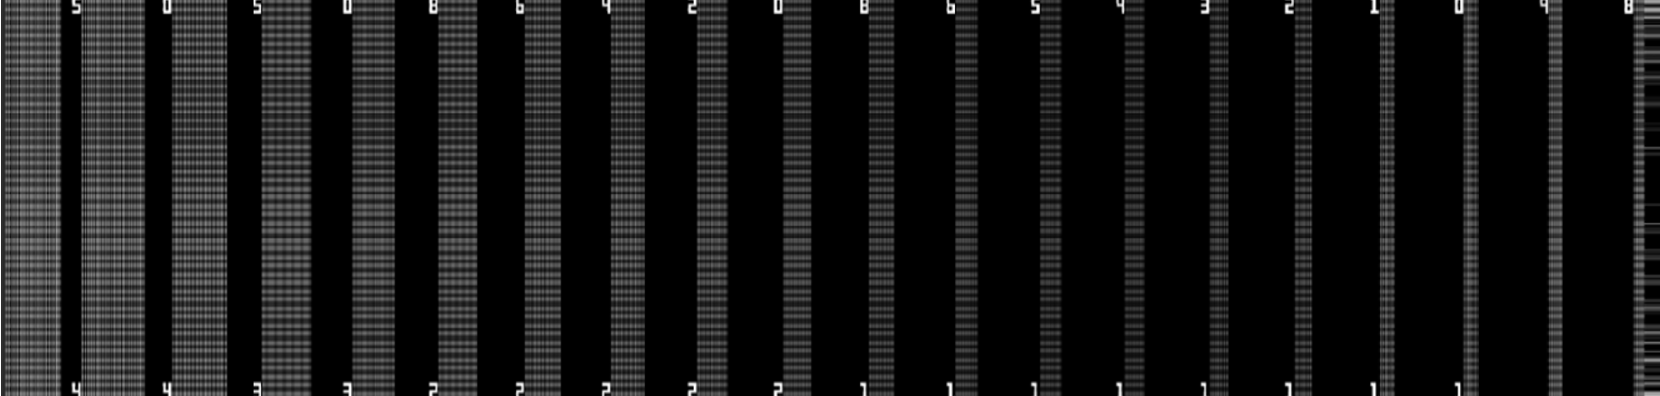
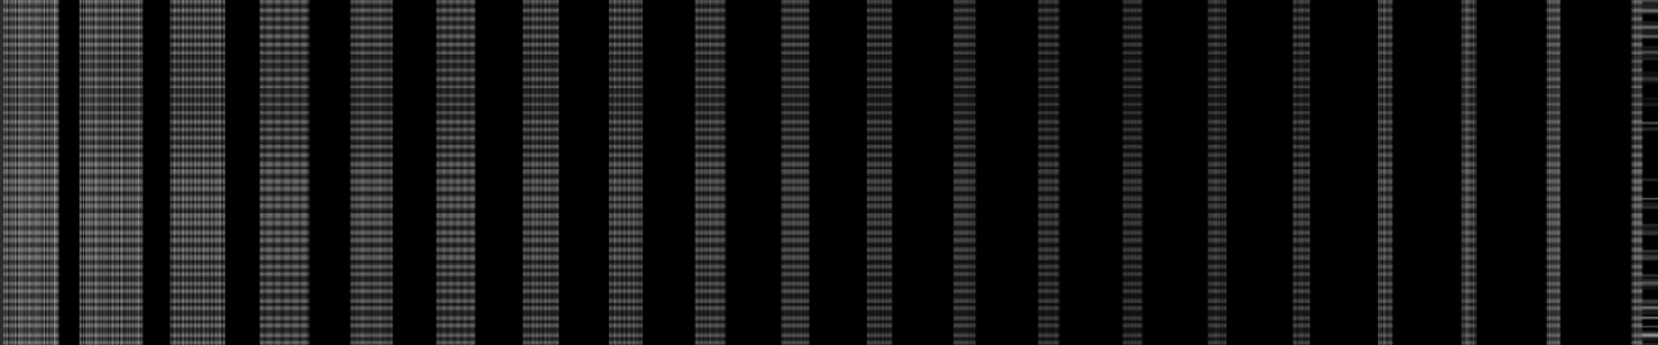
Crop out number-label rows entirely instead of masking (v3 asset)
Precisely located the label bands by inspecting a single line's full
height: top labels occupy rows 32-67, bottom labels rows 438-474,
with a clean label-free body in between (506 rows total). Cropping
straight to that middle band (plus trimming a 1px bright border
artifact at the left edge) is simpler and cleaner than the
connected-component masking approach tried first, which still left
faint residual nubs from some digits' anti-aliased edges. No number
pixels remain in the source at all now.

diff --git a/web/index.html b/web/index.html
@@ -88,8 +88,8 @@
          pixels sit near floor level; bright ridge edges rise up as walls. -->
     <a-entity id="terrain" class="ground"
               position="0 0.01 -20"
-              sem-terrain="heightmap: ../assets/processed/als_grating_height.png?v=2;
-                           texture: ../assets/processed/als_grating_texture.jpg?v=2;
+              sem-terrain="heightmap: ../assets/processed/als_grating_height.png?v=3;
+                           texture: ../assets/processed/als_grating_texture.jpg?v=3;
                            width: 34; maxHeight: 5; resolution: 260">
     </a-entity>
 
@@ -115,7 +115,7 @@
       <a-entity id="menuPageImage" position="0 0 0.01" visible="false">
         <a-entity id="menuImagePlane"
                   geometry="primitive: plane; width: 3.6; height: 2.2"
-                  material="src: ../assets/processed/als_grating_texture.jpg?v=2; shader: flat"></a-entity>
+                  material="src: ../assets/processed/als_grating_texture.jpg?v=3; shader: flat"></a-entity>
       </a-entity>
 
       <a-entity id="menuPageDatasets" position="0 0.1 0.01" visible="false"

diff --git a/web/menu-controller.js b/web/menu-controller.js
@@ -5,7 +5,7 @@ window.MENU_CONTROLLER_VERSION = 13;
 // Selectable SEM datasets for the terrain. Add more here as they're
 // processed via scripts/sem_to_heightmap.py -- no other code changes needed.
 const SEM_DATASETS = [
-  { label: 'ALS 40nm line/space grating (real data)', heightmap: '../assets/processed/als_grating_height.png?v=2', texture: '../assets/processed/als_grating_texture.jpg?v=2' },
+  { label: 'ALS 40nm line/space grating (real data)', heightmap: '../assets/processed/als_grating_height.png?v=3', texture: '../assets/processed/als_grating_texture.jpg?v=3' },
   { label: 'MEMS comb-drive actuator', heightmap: '../assets/processed/comb_height.png', texture: '../assets/processed/comb_texture.jpg' },
   { label: 'Deprocessed die -- routing', heightmap: '../assets/processed/fig3_height.png', texture: '../assets/processed/fig3_texture.jpg' },
   { label: 'Deprocessed die -- via lattice', heightmap: '../assets/processed/fig4_height.png', texture: '../assets/processed/fig4_texture.jpg' },
